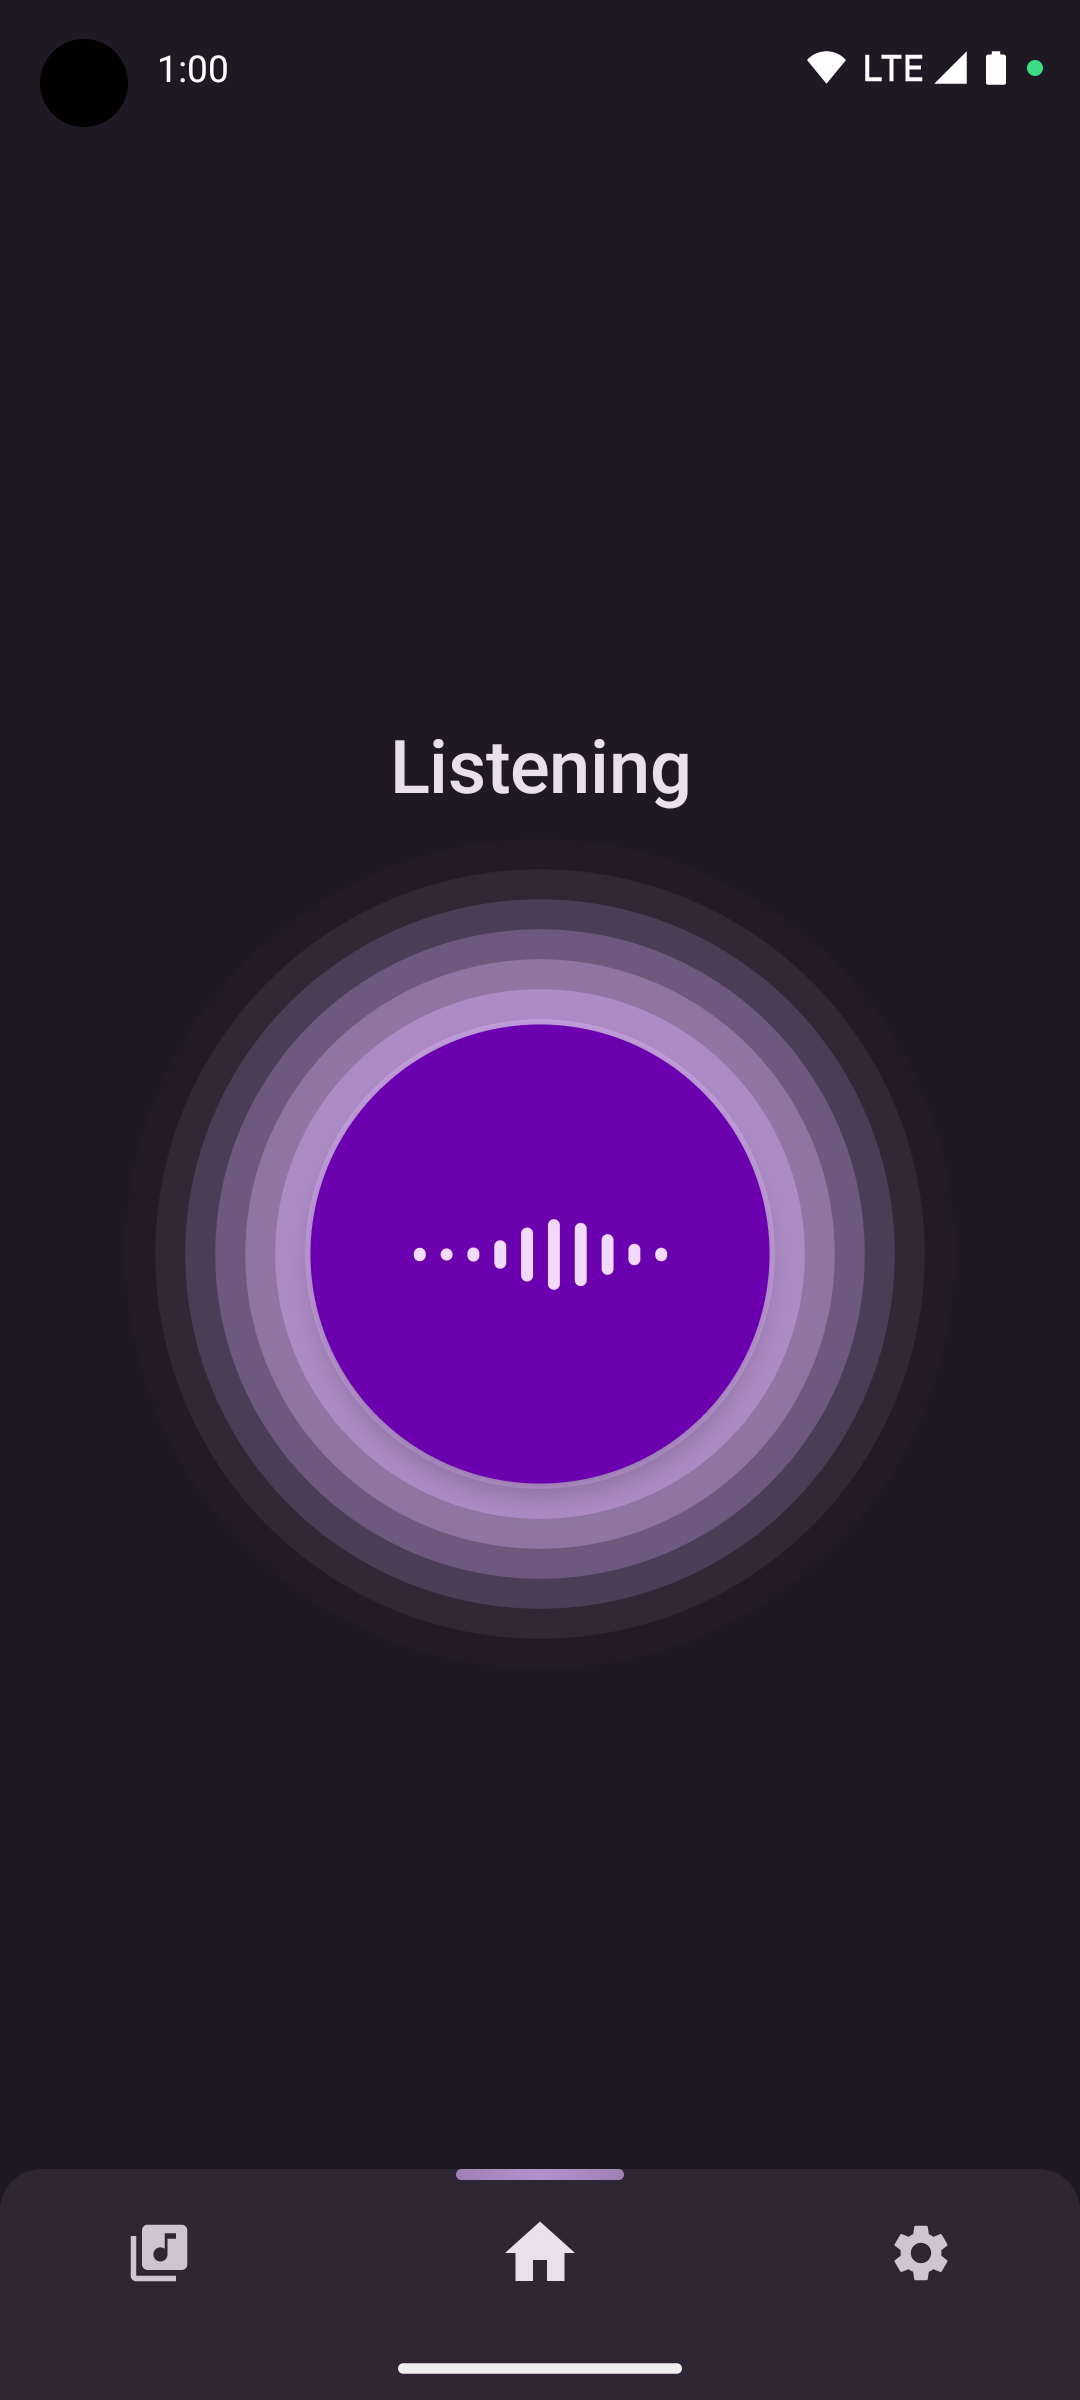
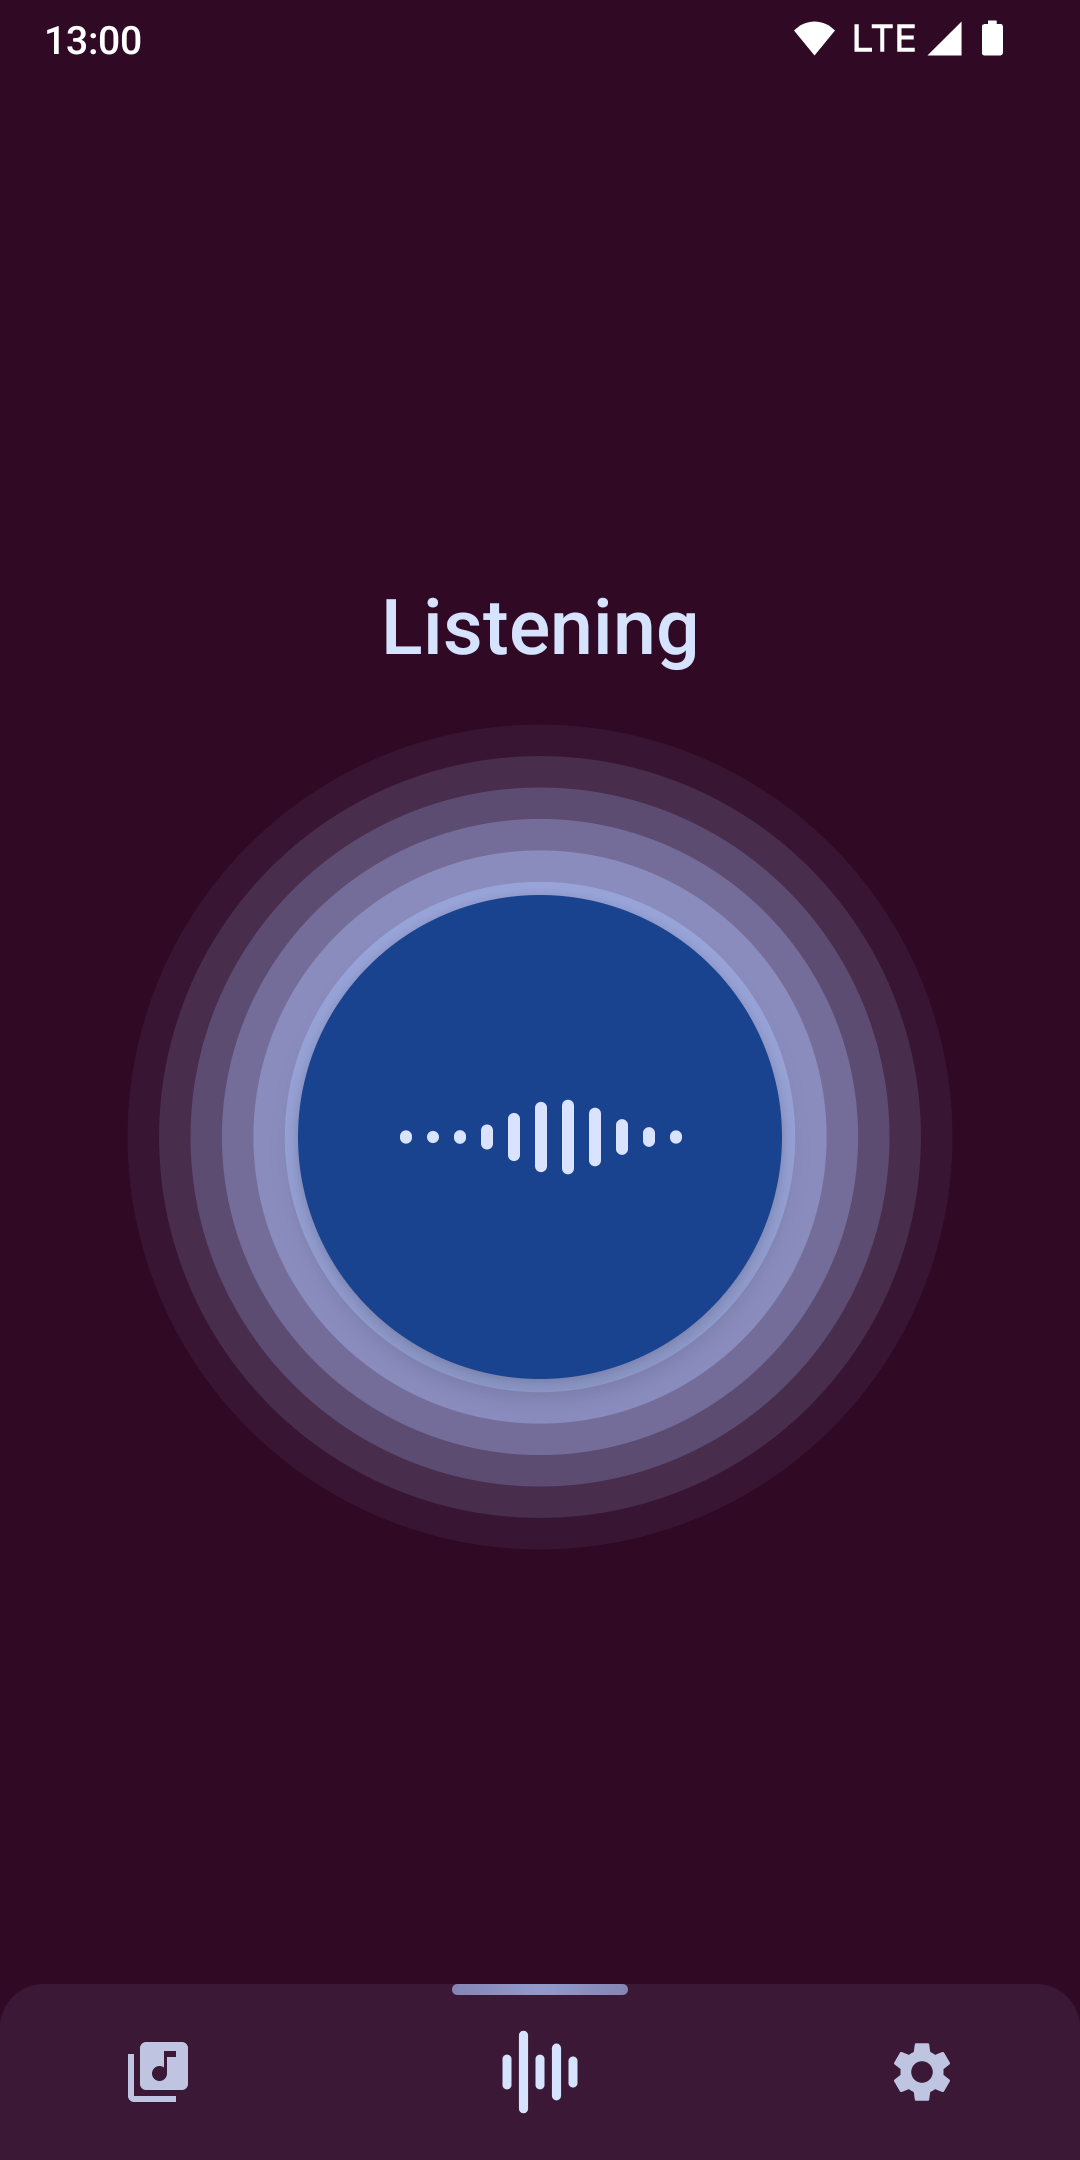
Added code for sharing track artwork image. Added resumed state check for conditional navigation. Updated readme images.

diff --git a/feature/track/src/main/java/com/mrsep/musicrecognizer/feature/track/presentation/track/AlbumArtwork.kt b/feature/track/src/main/java/com/mrsep/musicrecognizer/feature/track/presentation/track/AlbumArtwork.kt
@@ -1,5 +1,6 @@
 package com.mrsep.musicrecognizer.feature.track.presentation.track
 
+import android.net.Uri
 import androidx.compose.animation.AnimatedVisibility
 import androidx.compose.animation.core.MutableTransitionState
 import androidx.compose.animation.core.tween
@@ -7,6 +8,7 @@ import androidx.compose.animation.fadeIn
 import androidx.compose.animation.fadeOut
 import androidx.compose.animation.scaleIn
 import androidx.compose.animation.scaleOut
+import androidx.compose.foundation.Image
 import androidx.compose.foundation.background
 import androidx.compose.foundation.layout.Box
 import androidx.compose.foundation.layout.aspectRatio
@@ -23,31 +25,55 @@ import androidx.compose.ui.graphics.ColorFilter
 import androidx.compose.ui.layout.ContentScale
 import androidx.compose.ui.platform.LocalContext
 import androidx.compose.ui.res.painterResource
+import androidx.compose.ui.res.stringResource
 import androidx.compose.ui.unit.dp
-import coil.compose.AsyncImage
+import androidx.core.content.FileProvider
+import coil.annotation.ExperimentalCoilApi
 import coil.compose.SubcomposeAsyncImage
+import coil.compose.rememberAsyncImagePainter
+import coil.imageLoader
 import coil.request.ImageRequest
-import com.mrsep.musicrecognizer.core.ui.R
 import com.mrsep.musicrecognizer.core.ui.components.VinylRotating
 import com.mrsep.musicrecognizer.core.ui.components.VinylStatic
 import com.mrsep.musicrecognizer.core.ui.util.forwardingPainter
+import com.mrsep.musicrecognizer.core.ui.R as UiR
+import com.mrsep.musicrecognizer.core.strings.R as StringsR
 
+@OptIn(ExperimentalCoilApi::class)
 @Composable
 internal fun AlbumArtwork(
-    artworkUrl: String?,
-    contentDescription: String?,
+    url: String?,
+    onArtworkCached: (Uri) -> Unit,
     modifier: Modifier = Modifier
 ) {
     val placeholder = forwardingPainter(
-        painter = painterResource(R.drawable.baseline_album_24),
+        painter = painterResource(UiR.drawable.baseline_album_24),
         colorFilter = ColorFilter.tint(MaterialTheme.colorScheme.onBackground),
         alpha = 0.3f
     )
-    AsyncImage(
-        model = artworkUrl,
+    val context = LocalContext.current
+    val imageLoader = LocalContext.current.imageLoader
+    val painter = rememberAsyncImagePainter(
+        model = url,
         error = placeholder,
         fallback = placeholder,
-        contentDescription = contentDescription,
+        contentScale = ContentScale.Crop,
+        onSuccess = { state ->
+            state.result.diskCacheKey?.let { diskCacheKey ->
+                imageLoader.diskCache?.openSnapshot(diskCacheKey)?.let { snapshot ->
+                    val cacheUri = FileProvider.getUriForFile(
+                        context,
+                        "com.mrsep.musicrecognizer.fileprovider",
+                        snapshot.data.toFile()
+                    )
+                    onArtworkCached(cacheUri)
+                }
+            }
+        }
+    )
+    Image(
+        painter = painter,
+        contentDescription = stringResource(StringsR.string.artwork),
         contentScale = ContentScale.Crop,
         modifier = modifier
             .aspectRatio(1f)
@@ -64,15 +90,14 @@ internal fun AlbumArtwork(
 
 @Composable
 internal fun AlbumArtworkSubcompose(
-    artworkUrl: String?,
-    contentDescription: String?,
+    url: String?,
     modifier: Modifier = Modifier
 ) {
     // no fallback image? it looks not cool
     SubcomposeAsyncImage(
         model = ImageRequest.Builder(LocalContext.current)
-            .data(artworkUrl)
-            .fallback(R.drawable.baseline_album_24)
+            .data(url)
+            .fallback(UiR.drawable.baseline_album_24)
             .crossfade(true)
             .build(),
         loading = {
@@ -107,7 +132,7 @@ internal fun AlbumArtworkSubcompose(
             }
         },
         onError = { },
-        contentDescription = contentDescription,
+        contentDescription = stringResource(StringsR.string.artwork),
         contentScale = ContentScale.Crop,
         modifier = modifier
             .shadow(

diff --git a/app/src/main/java/com/mrsep/musicrecognizer/presentation/AppNavigation.kt b/app/src/main/java/com/mrsep/musicrecognizer/presentation/AppNavigation.kt
@@ -9,6 +9,7 @@ import androidx.compose.runtime.LaunchedEffect
 import androidx.compose.runtime.getValue
 import androidx.compose.ui.Alignment
 import androidx.compose.ui.Modifier
+import androidx.lifecycle.withResumed
 import androidx.navigation.NavController
 import androidx.navigation.NavGraphBuilder
 import androidx.navigation.NavHostController
@@ -16,7 +17,6 @@ import androidx.navigation.compose.NavHost
 import androidx.navigation.compose.composable
 import androidx.navigation.compose.currentBackStackEntryAsState
 import androidx.navigation.compose.rememberNavController
-import com.mrsep.musicrecognizer.BuildConfig
 import com.mrsep.musicrecognizer.feature.developermode.presentation.DeveloperScreenNavigation.developerScreen
 import com.mrsep.musicrecognizer.feature.developermode.presentation.DeveloperScreenNavigation.navigateToDeveloperScreen
 import com.mrsep.musicrecognizer.feature.library.presentation.library.LibraryScreen.libraryScreen
@@ -36,6 +36,8 @@ import com.mrsep.musicrecognizer.feature.track.presentation.lyrics.LyricsScreen.
 import com.mrsep.musicrecognizer.feature.track.presentation.lyrics.LyricsScreen.navigateToLyricsScreen
 import com.mrsep.musicrecognizer.feature.track.presentation.track.TrackScreen.navigateToTrackScreen
 import com.mrsep.musicrecognizer.feature.track.presentation.track.TrackScreen.trackScreen
+import kotlinx.coroutines.launch
+import kotlinx.coroutines.selects.select
 
 //private const val SCREEN_TRANSITION_DURATION = 300
 
@@ -54,20 +56,24 @@ internal fun AppNavigation(
     val currentInnerEntry by innerNavController.currentBackStackEntryAsState()
     // Conditional navigation for onboarding screen
     LaunchedEffect(onboardingCompleted, currentOuterEntry, currentInnerEntry) {
-        val outerCurrentRoute = currentOuterEntry?.destination?.route ?: return@LaunchedEffect
+        val outerEntry = currentOuterEntry ?: return@LaunchedEffect
         onboardingCompleted ?: return@LaunchedEffect
-        val isOnOnboarding = (outerCurrentRoute == OnboardingScreen.ROUTE)
-        if ((onboardingCompleted && !isOnOnboarding) || (!onboardingCompleted && isOnOnboarding)) {
-            hideSplashScreen()
-        }
-        if (onboardingCompleted && isOnOnboarding) {
-            outerNavController.popBackStack()
-        }
-
-        if (!onboardingCompleted && !isOnOnboarding &&
-            currentInnerEntry?.destination?.route == RecognitionScreen.ROUTE
-        ) {
-            outerNavController.navigate(route = OnboardingScreen.ROUTE)
+        val onOnboarding = outerEntry.destination.route == OnboardingScreen.ROUTE
+        when {
+            !onboardingCompleted && !onOnboarding -> {
+                outerNavController.navigate(OnboardingScreen.ROUTE)
+            }
+            onboardingCompleted && onOnboarding -> {
+                outerNavController.popBackStack()
+            }
+            // hide splash screen if navigation is finished and result screen is resumed
+            else -> {
+                select<Unit> {
+                    listOfNotNull(currentOuterEntry, outerEntry).forEach { entry ->
+                        launch { entry.lifecycle.withResumed(hideSplashScreen) }.onJoin
+                    }
+                }
+            }
         }
     }
 
@@ -176,7 +182,7 @@ private fun BarNavHost(
             }
         )
         preferencesScreen(
-            showDeveloperOptions = BuildConfig.DEBUG,
+            showDeveloperOptions = true, //BuildConfig.DEBUG
             onNavigateToAboutScreen = { from ->
                 outerNavController.navigateToAboutScreen(from)
             },

diff --git a/feature/track/src/main/java/com/mrsep/musicrecognizer/feature/track/presentation/track/TrackScreen.kt b/feature/track/src/main/java/com/mrsep/musicrecognizer/feature/track/presentation/track/TrackScreen.kt
@@ -1,5 +1,6 @@
 package com.mrsep.musicrecognizer.feature.track.presentation.track
 
+import android.net.Uri
 import androidx.compose.animation.AnimatedVisibility
 import androidx.compose.animation.core.MutableTransitionState
 import androidx.compose.animation.fadeIn
@@ -18,6 +19,7 @@ import androidx.hilt.navigation.compose.hiltViewModel
 import androidx.lifecycle.compose.collectAsStateWithLifecycle
 import com.mrsep.musicrecognizer.core.ui.components.EmptyStaticTopBar
 import com.mrsep.musicrecognizer.core.ui.components.LoadingStub
+import com.mrsep.musicrecognizer.core.ui.util.shareImageWithText
 import com.mrsep.musicrecognizer.core.ui.util.shareText
 
 @OptIn(ExperimentalMaterial3Api::class)
@@ -81,6 +83,7 @@ internal fun TrackScreen(
                 if (!trackExistenceTransitionState.currentState) currentOnBackPressed()
             }
 
+            var artworkUri by remember { mutableStateOf<Uri?>(null) }
             AnimatedVisibility(
                 visibleState = trackExistenceTransitionState,
                 enter = fadeIn() + scaleIn(
@@ -107,6 +110,18 @@ internal fun TrackScreen(
                                 subject = "",
                                 body = uiState.sharedBody
                             )
+//                            artworkUri?.let { uri ->
+//                                context.shareImageWithText(
+//                                    subject = "",
+//                                    body = uiState.sharedBody,
+//                                    imageUri = uri
+//                                )
+//                            } ?: let {
+//                                context.shareText(
+//                                    subject = "",
+//                                    body = uiState.sharedBody
+//                                )
+//                            }
                         },
                         onDeleteClick = { viewModel.deleteTrack(uiState.mbId) },
                         onShowDetailsClick = { extraDataDialogVisible = true },
@@ -119,6 +134,7 @@ internal fun TrackScreen(
                         artworkUrl = uiState.artworkUrl,
                         links = uiState.links,
                         isExpandedScreen = isExpandedScreen,
+                        onArtworkCached = { artworkUri = it },
                         modifier = Modifier.fillMaxSize()
                     )
                 }

diff --git a/core/ui/src/main/java/com/mrsep/musicrecognizer/core/ui/util/ContextExt.kt b/core/ui/src/main/java/com/mrsep/musicrecognizer/core/ui/util/ContextExt.kt
@@ -1,6 +1,5 @@
 package com.mrsep.musicrecognizer.core.ui.util
 
-import android.annotation.SuppressLint
 import android.content.Context
 import android.content.Intent
 import android.net.Uri
@@ -15,17 +14,32 @@ fun Context.openUrlImplicitly(url: String) {
     startActivityOrToast(intent, getString(StringsR.string.web_browser_not_found_toast))
 }
 
+fun Context.shareImageWithText(subject: String, body: String, imageUri: Uri) {
+    val shareIntent = Intent(Intent.ACTION_SEND).apply {
+        type = "image/*"
+        putExtra(Intent.EXTRA_SUBJECT, subject)
+        putExtra(Intent.EXTRA_TEXT, body)
+        putExtra(Intent.EXTRA_STREAM, imageUri)
+        addFlags(Intent.FLAG_GRANT_READ_URI_PERMISSION)
+    }
+    startActivityOrToast(
+        Intent.createChooser(shareIntent, null),
+        getString(StringsR.string.cannot_share_toast)
+    )
+}
+
 fun Context.shareText(subject: String, body: String) {
-    val intent = Intent(Intent.ACTION_SEND).apply {
+    val shareIntent = Intent(Intent.ACTION_SEND).apply {
         type = "text/plain"
         putExtra(Intent.EXTRA_SUBJECT, subject)
         putExtra(Intent.EXTRA_TEXT, body)
     }
-    val wrappedIntent = Intent.createChooser(intent, null)
-    startActivityOrToast(wrappedIntent, getString(StringsR.string.cannot_share_toast))
+    startActivityOrToast(
+        Intent.createChooser(shareIntent, null),
+        getString(StringsR.string.cannot_share_toast)
+    )
 }
 
-@SuppressLint("QueryPermissionsNeeded")
 private fun Context.startActivityOrToast(intent: Intent, message: String) {
     if (intent.resolveActivity(packageManager) != null) {
         startActivity(intent)

diff --git a/feature/track/src/main/java/com/mrsep/musicrecognizer/feature/track/presentation/track/TrackSection.kt b/feature/track/src/main/java/com/mrsep/musicrecognizer/feature/track/presentation/track/TrackSection.kt
@@ -1,5 +1,6 @@
 package com.mrsep.musicrecognizer.feature.track.presentation.track
 
+import android.net.Uri
 import androidx.compose.foundation.layout.Arrangement
 import androidx.compose.foundation.layout.Column
 import androidx.compose.foundation.layout.PaddingValues
@@ -21,6 +22,7 @@ internal fun TrackSection(
     artworkUrl: String?,
     links: ImmutableList<ServiceLink>,
     isExpandedScreen: Boolean,
+    onArtworkCached: (Uri) -> Unit,
     modifier: Modifier = Modifier
 ) {
     if (isExpandedScreen) {
@@ -30,8 +32,8 @@ internal fun TrackSection(
             verticalAlignment = Alignment.Top
         ) {
             AlbumArtwork(
-                artworkUrl = artworkUrl,
-                contentDescription = null,
+                url = artworkUrl,
+                onArtworkCached = onArtworkCached,
                 modifier = Modifier
                     .padding(start = 16.dp, bottom = 16.dp)
                     .sizeIn(maxWidth = 600.dp)
@@ -63,8 +65,8 @@ internal fun TrackSection(
             horizontalAlignment = Alignment.CenterHorizontally
         ) {
             AlbumArtwork(
-                artworkUrl = artworkUrl,
-                contentDescription = null,
+                url = artworkUrl,
+                onArtworkCached = onArtworkCached,
                 modifier = Modifier
                     .padding(horizontal = 16.dp)
                     .sizeIn(maxWidth = 600.dp)
@@ -84,7 +86,6 @@ internal fun TrackSection(
                     .fillMaxWidth()
                     .padding(vertical = 16.dp)
             )
-
         }
     }
 

diff --git a/feature/track/src/main/java/com/mrsep/musicrecognizer/feature/track/presentation/track/TrackViewModel.kt b/feature/track/src/main/java/com/mrsep/musicrecognizer/feature/track/presentation/track/TrackViewModel.kt
@@ -84,8 +84,8 @@ internal sealed interface TrackUiState {
 
         val sharedBody
             get() = albumAndYear?.let { albAndYear ->
-                "$title / $artist / $albAndYear"
-            } ?: "$title / $artist"
+                "$title\n$artist\n$albAndYear"
+            } ?: "$title\n$artist"
     }
 
 }
